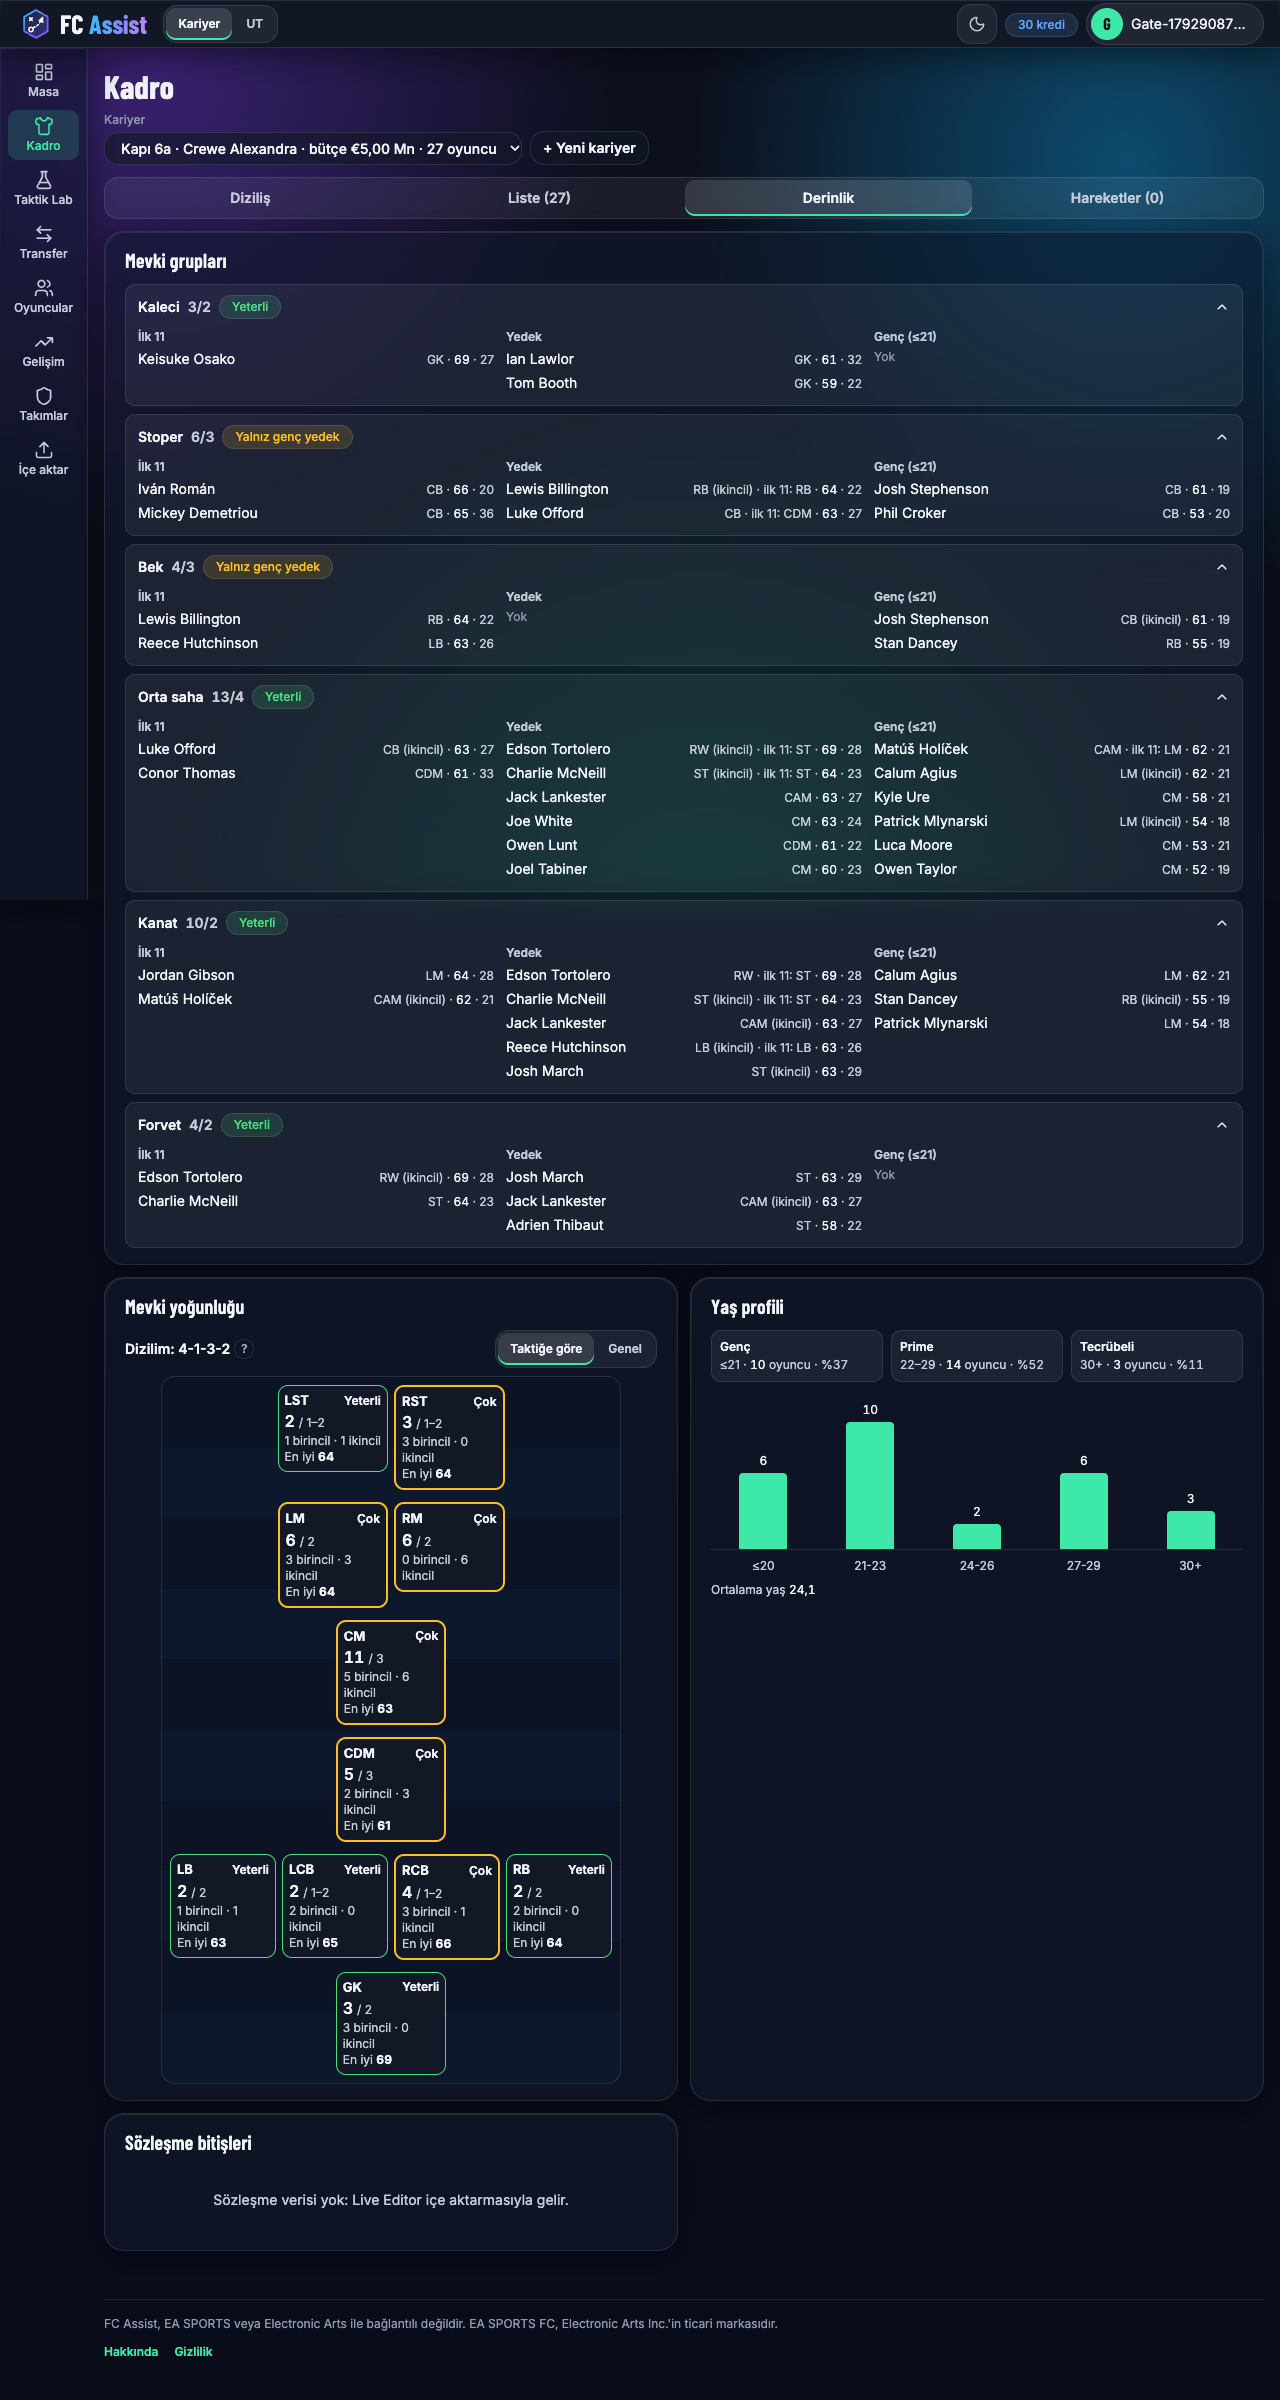
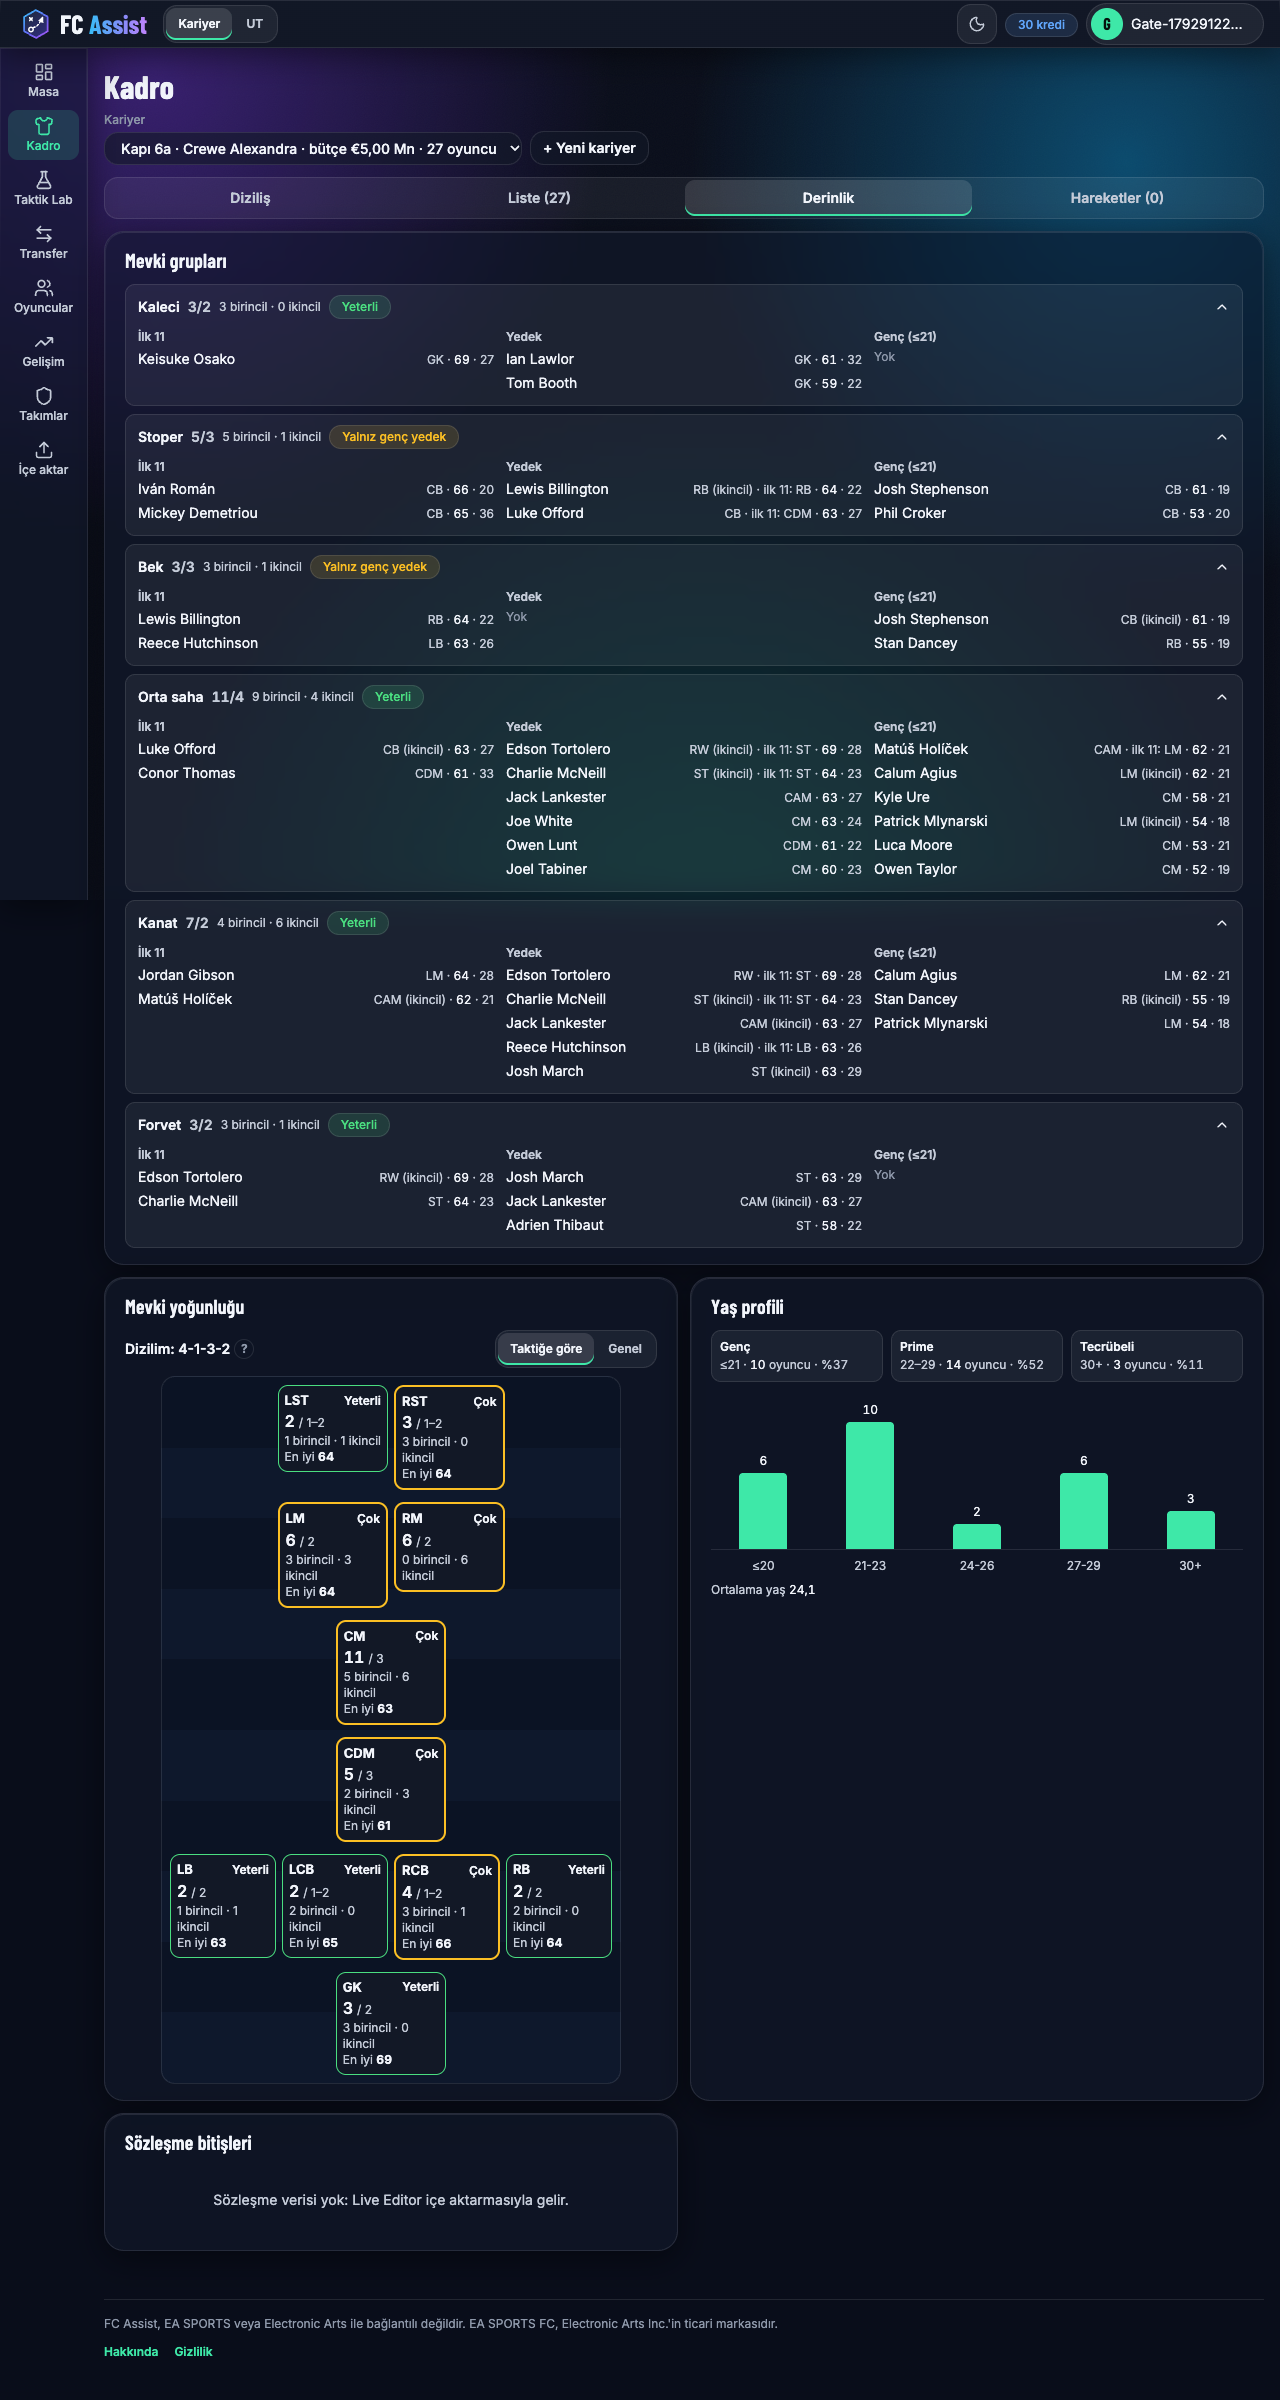
KARIYER-UX-6a: grup derinliği ağırlıklı (birincil + ⌊ikincil/2⌋), birincil/ikincil ayrımı başlıkta
6a açık soru 1, Buğra kararı: ikincil mevkili oyuncu iki grubu birden tam doldurmaz; Masa derinlik işi ve Transfer
derinlik ihtiyacı aynı eşikle. Mevki yoğunluğu hücreleri (mevki başına kapasite) değişmedi.

BEHAVIOR CHANGE: grup derinlik sayıları ve eksik uyarıları ikincil mevkiyi yarım sayar.

diff --git a/src/features/careerSquad/careerSquadRules.test.ts b/src/features/careerSquad/careerSquadRules.test.ts
@@ -79,11 +79,27 @@ describe('FAZ 6a-B tek derinlik tanımı', () => {
     expect(capacity.get('RW')).toMatchObject({ primary: [onel], secondary: [ouazane] })
     expect(capacity.get('RB')!.primary.map((c) => c.player.id)).toEqual([12])
     expect(capacity.get('RB')!.secondary.map((c) => c.player.id)).toEqual([11])
+    // Grup eşiği ağırlıklı: birincil + ⌊ikincil/2⌋ (ikincil oyuncu iki grubu birden tam doldurmaz); ayrım ayrıca verilir.
     const fb = depthRows([onel, ouazane, gutierrez, striker]).find((d) => d.group === 'FB')!
-    expect(fb.have).toBe(2)
+    expect(fb).toMatchObject({ have: 1, primary: 1, secondary: 1 })
     const fbRoster = groupRoster([onel, ouazane, gutierrez, striker]).find((r) => r.group === 'FB')!
     expect(fbRoster.have).toBe(fb.have)
     expect(fbRoster.players.find((p) => p.id === 11)).toMatchObject({ primary: false })
+  })
+})
+
+/** 6a açık soru 1 (Buğra kararı): ikincil mevki grup eşiğinde yarım sayılır; iki CB ikincili iki CDM'yi "yeterli" yapmaz. */
+describe('grup derinliği ağırlıklı', () => {
+  it('2 birincil + 3 ikincil = 3; eksik buna göre', () => {
+    const squad = [
+      member(1, 'CB', 70, 25), member(2, 'CB', 70, 25),
+      member(3, 'CDM', 70, 25, {}, { positions: ['CDM', 'CB'] }), member(4, 'CDM', 70, 25, {}, { positions: ['CDM', 'CB'] }),
+      member(5, 'RB', 70, 25, {}, { positions: ['RB', 'CB'] }),
+    ]
+    const cb = depthRows(squad).find((d) => d.group === 'CB')!
+    expect(cb).toMatchObject({ primary: 2, secondary: 3, have: 3, need: 3, short: 0 })
+    expect(depthRows(squad.slice(0, 4)).find((d) => d.group === 'CB')).toMatchObject({ have: 3, short: 0 })
+    expect(depthRows([member(1, 'CB', 70, 25), member(3, 'CDM', 70, 25, {}, { positions: ['CDM', 'CB'] })]).find((d) => d.group === 'CB')).toMatchObject({ have: 1, short: 2 })
   })
 })
 

diff --git a/src/lib/deskRules.ts b/src/lib/deskRules.ts
@@ -41,7 +41,10 @@ const LOAN_MIN_GAP = 6
 
 export interface DepthRow {
   group: PositionGroup
+  /** Eşikte sayılan: birincil + ⌊ikincil/2⌋. */
   have: number
+  primary: number
+  secondary: number
   need: number
   short: number
 }
@@ -101,13 +104,17 @@ export function groupCapacity(squad: CareerPlayer[]): Map<PositionGroup, Capacit
   return groups
 }
 
-/** Mevki grubu başına eldeki oyuncu sayısı (grup kapasitesi: birincil + ikincil) ve beklenen asgari derinlik. */
+/**
+ * Mevki grubu başına eldeki oyuncu (grup kapasitesi) ve beklenen asgari derinlik. Eşik ağırlıklı: birincil + ⌊ikincil/2⌋ (Buğra kararı,
+ * 6a açık soru 1; depth.analyzeDepth ile aynı kural) — ikincil oyuncu iki grubu birden tam doldurmaz. Birincil/ikincil ayrımı ayrıca döner.
+ */
 export function depthRows(squad: CareerPlayer[]): DepthRow[] {
   const groups = groupCapacity(squad)
   return (Object.keys(MIN_DEPTH) as PositionGroup[]).map((group) => {
-    const entry = groups.get(group)
-    const have = entry ? entry.primary.length + entry.secondary.length : 0
-    return { group, have, need: MIN_DEPTH[group], short: Math.max(0, MIN_DEPTH[group] - have) }
+    const primary = groups.get(group)?.primary.length ?? 0
+    const secondary = groups.get(group)?.secondary.length ?? 0
+    const have = primary + Math.floor(secondary / 2)
+    return { group, have, primary, secondary, need: MIN_DEPTH[group], short: Math.max(0, MIN_DEPTH[group] - have) }
   })
 }
 

diff --git a/src/features/careerSquad/DepthTab.tsx b/src/features/careerSquad/DepthTab.tsx
@@ -26,7 +26,11 @@ function GroupSection({ roster, open, onToggle, focus }: { roster: GroupRoster; 
         className="flex min-h-11 w-full items-center justify-between gap-2 px-3 text-left text-sm font-semibold outline-none focus-visible:ring-2 focus-visible:ring-accent">
         <span className="flex flex-wrap items-center gap-2">
           {roster.label}
-          <span className="font-[var(--font-num)] tabular-nums text-ink-2">{roster.have}/{roster.need}</span>
+          <span className="font-[var(--font-num)] tabular-nums text-ink-2"
+            title="Sayılan: birincil + ikincilin yarısı (ikincil oyuncu iki grubu birden tam doldurmaz)">
+            {roster.have}/{roster.need}
+          </span>
+          <span className="text-xs font-normal text-ink-2">{roster.primary} birincil · {roster.secondary} ikincil</span>
           <UrgencyChip roster={roster} />
         </span>
         <ChevronDown size={16} aria-hidden="true" className={open ? 'rotate-180' : ''} />

diff --git a/src/features/careerSquad/careerSquadRules.ts b/src/features/careerSquad/careerSquadRules.ts
@@ -47,7 +47,10 @@ export interface GroupRosterPlayer {
 export interface GroupRoster {
   group: PositionGroup
   label: string
+  /** Eşikte sayılan (birincil + ⌊ikincil/2⌋); ayrım primary/secondary. */
   have: number
+  primary: number
+  secondary: number
   need: number
   short: number
   urgency: DepthUrgency
